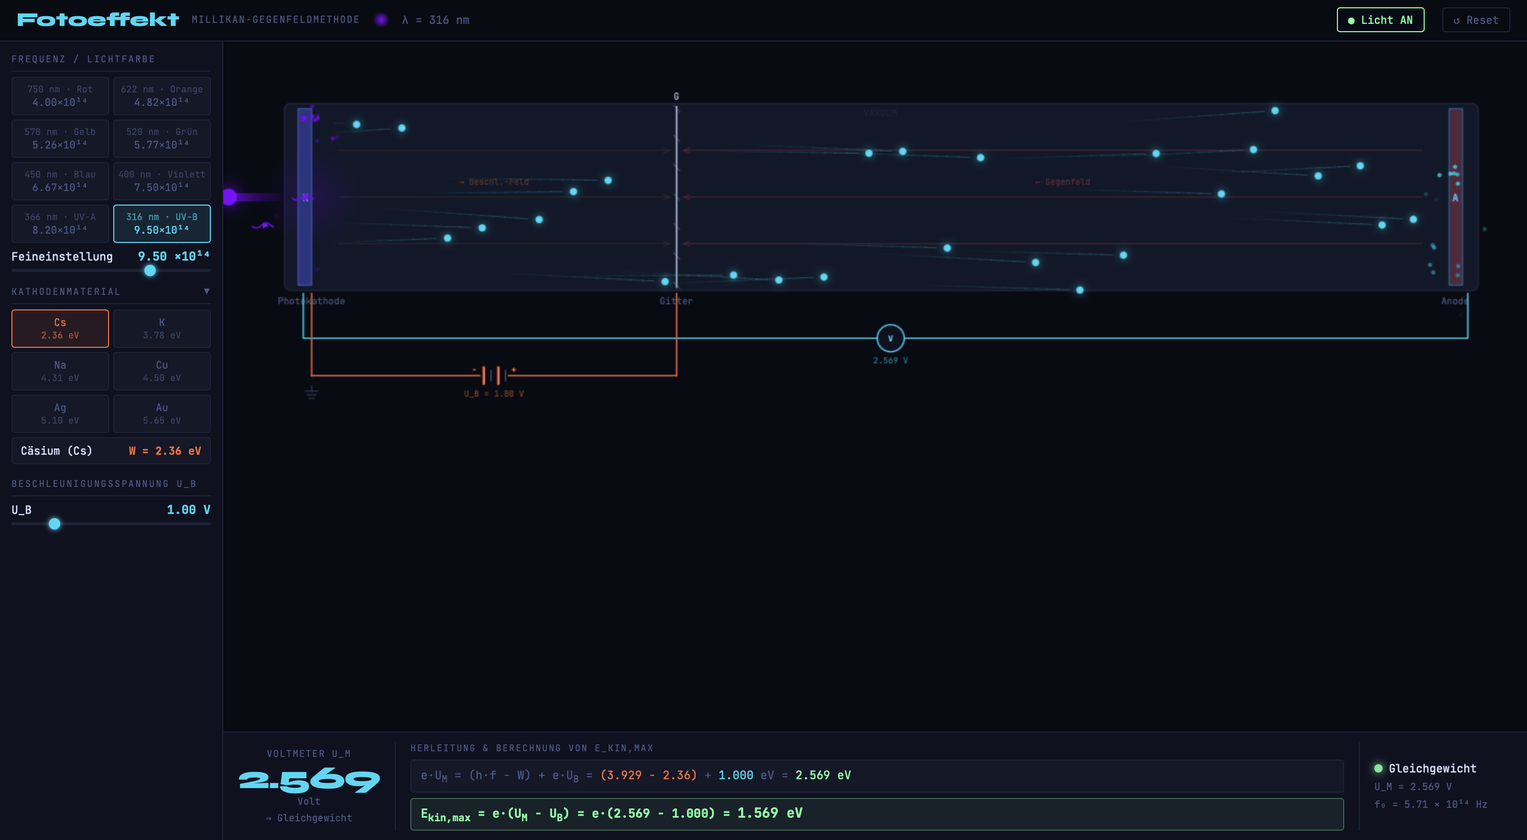
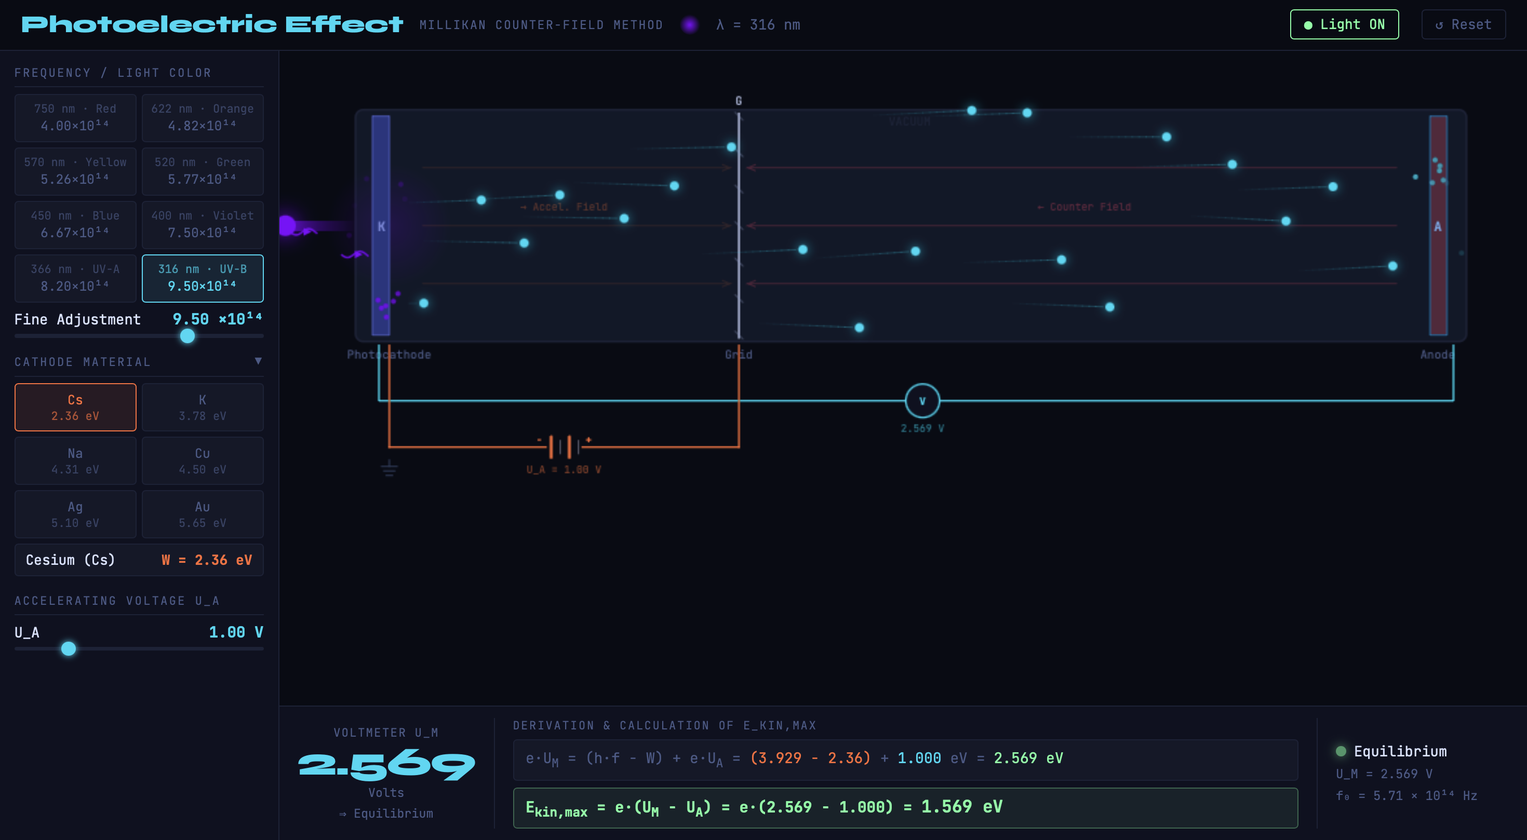
Added new projects

diff --git a/projects/physics_simulation/fotoeffect.html b/projects/physics_simulation/fotoeffect.html
@@ -1,8 +1,8 @@
 <!DOCTYPE html>
-<html lang="de">
+<html lang="en">
 <head>
 <meta charset="UTF-8"><meta name="viewport" content="width=device-width, initial-scale=1.0">
-<title>Fotoeffekt – Simulation</title>
+<title>Photoelectric Effect – Simulation</title>
 <link href="https://fonts.googleapis.com/css2?family=JetBrains+Mono:wght@400;700&family=Syne:wght@800&display=swap" rel="stylesheet">
 <style>
 :root{--bg:#080b14;--panel:#0e1120;--panel2:#141828;--border:#1c2238;--accent:#00d9f5;--acc2:#ff6b35;--acc3:#6effa0;--dim:#4a5a88;--text:#d8e2ff;}
@@ -72,49 +72,49 @@ canvas#sim{display:block;width:100%;height:100%;}
 </head>
 <body>
 <header>
-  <h1>Fotoeffekt</h1><span class="sub">Millikan-Gegenfeldmethode</span>
+  <h1>Photoelectric Effect</h1><span class="sub">Millikan Counter-Field Method</span>
   <canvas class="light-dot" id="light-dot" width="16" height="16"></canvas>
   <span id="hdr-wl">—</span>
-  <button class="hbtn on" id="btn-light">● Licht AN</button>
+  <button class="hbtn on" id="btn-light">● Light ON</button>
   <button class="hbtn" id="btn-reset">↺ Reset</button>
 </header>
 <div class="body-row">
   <aside class="left">
     <div>
-      <div class="sect">Frequenz / Lichtfarbe</div>
+      <div class="sect">Frequency / Light Color</div>
       <div class="freq-grid" id="freq-btns">
-        <button class="freq-btn" data-f="4.00"><span>750 nm · Rot</span>4.00×10¹⁴</button>
+        <button class="freq-btn" data-f="4.00"><span>750 nm · Red</span>4.00×10¹⁴</button>
         <button class="freq-btn" data-f="4.82"><span>622 nm · Orange</span>4.82×10¹⁴</button>
-        <button class="freq-btn" data-f="5.26"><span>570 nm · Gelb</span>5.26×10¹⁴</button>
-        <button class="freq-btn" data-f="5.77"><span>520 nm · Grün</span>5.77×10¹⁴</button>
-        <button class="freq-btn" data-f="6.67"><span>450 nm · Blau</span>6.67×10¹⁴</button>
-        <button class="freq-btn" data-f="7.50"><span>400 nm · Violett</span>7.50×10¹⁴</button>
+        <button class="freq-btn" data-f="5.26"><span>570 nm · Yellow</span>5.26×10¹⁴</button>
+        <button class="freq-btn" data-f="5.77"><span>520 nm · Green</span>5.77×10¹⁴</button>
+        <button class="freq-btn" data-f="6.67"><span>450 nm · Blue</span>6.67×10¹⁴</button>
+        <button class="freq-btn" data-f="7.50"><span>400 nm · Violet</span>7.50×10¹⁴</button>
         <button class="freq-btn" data-f="8.20"><span>366 nm · UV-A</span>8.20×10¹⁴</button>
         <button class="freq-btn active" data-f="9.50"><span>316 nm · UV-B</span>9.50×10¹⁴</button>
       </div>
       <div class="sl-wrap">
-        <div class="sl-head"><span class="sl-name">Feineinstellung</span><span class="sl-val" id="val-freq">9.50 ×10¹⁴</span></div>
+        <div class="sl-head"><span class="sl-name">Fine Adjustment</span><span class="sl-val" id="val-freq">9.50 ×10¹⁴</span></div>
         <input type="range" id="sl-freq" min="3.5" max="12.0" step="0.05" value="9.5">
       </div>
     </div>
     <div>
-      <div class="col-hdr open" id="mat-hdr"><span>Kathodenmaterial</span><span class="arr">▶</span></div>
+      <div class="col-hdr open" id="mat-hdr"><span>Cathode Material</span><span class="arr">▶</span></div>
       <div class="col-body open" id="mat-body">
         <div class="mat-grid" id="mat-btns">
-          <button class="mat-btn active" data-w="2.36" data-name="Cäsium (Cs)">Cs<small>2.36 eV</small></button>
-          <button class="mat-btn" data-w="3.78" data-name="Kalium (K)">K<small>3.78 eV</small></button>
-          <button class="mat-btn" data-w="4.31" data-name="Natrium (Na)">Na<small>4.31 eV</small></button>
-          <button class="mat-btn" data-w="4.50" data-name="Kupfer (Cu)">Cu<small>4.50 eV</small></button>
-          <button class="mat-btn" data-w="5.10" data-name="Silber (Ag)">Ag<small>5.10 eV</small></button>
+          <button class="mat-btn active" data-w="2.36" data-name="Cesium (Cs)">Cs<small>2.36 eV</small></button>
+          <button class="mat-btn" data-w="3.78" data-name="Potassium (K)">K<small>3.78 eV</small></button>
+          <button class="mat-btn" data-w="4.31" data-name="Sodium (Na)">Na<small>4.31 eV</small></button>
+          <button class="mat-btn" data-w="4.50" data-name="Copper (Cu)">Cu<small>4.50 eV</small></button>
+          <button class="mat-btn" data-w="5.10" data-name="Silver (Ag)">Ag<small>5.10 eV</small></button>
           <button class="mat-btn" data-w="5.65" data-name="Gold (Au)">Au<small>5.65 eV</small></button>
         </div>
       </div>
-      <div class="mat-cur"><span class="mn" id="mat-cur-name">Cäsium (Cs)</span><span class="mw">W = <span id="mat-cur-w">2.36</span> eV</span></div>
+      <div class="mat-cur"><span class="mn" id="mat-cur-name">Cesium (Cs)</span><span class="mw">W = <span id="mat-cur-w">2.36</span> eV</span></div>
     </div>
     <div>
-      <div class="sect">Beschleunigungsspannung U_B</div>
+      <div class="sect">Accelerating Voltage U_A</div>
       <div class="sl-wrap">
-        <div class="sl-head"><span class="sl-name">U_B</span><span class="sl-val" id="val-ub">1.00 V</span></div>
+        <div class="sl-head"><span class="sl-name">U_A</span><span class="sl-val" id="val-ub">1.00 V</span></div>
         <input type="range" id="sl-ub" min="0" max="5" step="0.05" value="1.0">
       </div>
     </div>
@@ -125,16 +125,16 @@ canvas#sim{display:block;width:100%;height:100%;}
       <div class="vm-box">
         <div class="vm-label">Voltmeter U_M</div>
         <div class="vm-value" id="vm-val">0.000</div>
-        <div class="vm-unit">Volt</div>
+        <div class="vm-unit">Volts</div>
         <div class="vm-sub" id="vm-sub">—</div>
       </div>
       <div class="eq-area">
-        <div class="eq-title">Herleitung &amp; Berechnung von E_kin,max</div>
+        <div class="eq-title">Derivation &amp; Calculation of E_kin,max</div>
         <div class="eq-step" id="eq-step1">—</div>
         <div class="eq-result eq-ok" id="eq-result">—</div>
       </div>
       <div class="status-box">
-        <div class="s-row"><div class="s-dot" id="s-dot"></div><span class="s-txt" id="s-txt">Bereit</span></div>
+        <div class="s-row"><div class="s-dot" id="s-dot"></div><span class="s-txt" id="s-txt">Ready</span></div>
         <div class="s-sub" id="s-sub">—</div>
         <div class="s-sub" id="s-f0">—</div>
       </div>
@@ -143,7 +143,7 @@ canvas#sim{display:block;width:100%;height:100%;}
 </div>
 <script>
 const hJ=6.626e-34,eC=1.602e-19,cms=3e8;
-const state={f:9.5e14,W:2.36,mat:'Cäsium (Cs)',UB:1.0,UM:0,run:true,eq:false};
+const state={f:9.5e14,W:2.36,mat:'Cesium (Cs)',UB:1.0,UM:0,run:true,eq:false};
 function phys(){const hf=hJ*state.f/eC,ek0=hf-state.W,ekG=ek0+state.UB,Ueq=ekG>0?ekG:0;return{hf,ek0,ekG,Ueq,ok:ek0>0};}
 function toRGB(f){const wl=cms/f*1e9;let r=0,g=0,b=0;if(wl<380){r=128;g=0;b=255;}else if(wl<440){r=Math.round((440-wl)/60*255);g=0;b=255;}else if(wl<490){r=0;g=Math.round((wl-440)/50*255);b=255;}else if(wl<510){r=0;g=255;b=Math.round((510-wl)/20*255);}else if(wl<580){r=Math.round((wl-510)/70*255);g=255;b=0;}else if(wl<645){r=255;g=Math.round((645-wl)/65*255);b=0;}else{r=255;g=0;b=0;}return{r,g,b};}
 function css(f,a=1){const{r,g,b}=toRGB(f);return`rgba(${r},${g},${b},${a})`;}
@@ -169,7 +169,7 @@ function draw(ts){
 function drawTube(l,ph){
   const{cX,gX,aX,tY,tH}=l;
   ctx.fillStyle='#111828';ctx.strokeStyle='#1c2238';ctx.lineWidth=1.5;rr(cX-26,tY,aX-cX+54,tH,6);ctx.fill();ctx.stroke();
-  ctx.fillStyle='rgba(74,90,136,.18)';ctx.font='9px JetBrains Mono';ctx.textAlign='center';ctx.fillText('VAKUUM',(cX+aX)/2,tY+12);ctx.textAlign='left';
+  ctx.fillStyle='rgba(74,90,136,.18)';ctx.font='9px JetBrains Mono';ctx.textAlign='center';ctx.fillText('VACUUM',(cX+aX)/2,tY+12);ctx.textAlign='left';
   if(state.run){const{r,g,b}=toRGB(state.f);const bg=ctx.createLinearGradient(0,0,cX-26,0);bg.addColorStop(0,`rgba(${r},${g},${b},.7)`);bg.addColorStop(1,`rgba(${r},${g},${b},0)`);ctx.fillStyle=bg;ctx.fillRect(0,tY+tH/2-4,cX-26,8);ctx.beginPath();ctx.arc(5,tY+tH/2,8,0,Math.PI*2);ctx.fillStyle=`rgb(${r},${g},${b})`;ctx.shadowColor=`rgb(${r},${g},${b})`;ctx.shadowBlur=16;ctx.fill();ctx.shadowBlur=0;}
   if(state.run&&ph.ok){const{r,g,b}=toRGB(state.f);const cg=ctx.createRadialGradient(cX,tY+tH/2,0,cX,tY+tH/2,48);cg.addColorStop(0,`rgba(${r},${g},${b},.16)`);cg.addColorStop(1,`rgba(${r},${g},${b},0)`);ctx.fillStyle=cg;ctx.fillRect(cX-48,tY,96,tH);}
   if(state.UB>0){ctx.globalAlpha=.13;ctx.strokeStyle='#ff6b35';ctx.lineWidth=1;for(let row=1;row<=3;row++){arr(cX+26,tY+tH*row/4,gX-7,tY+tH*row/4,6);}ctx.globalAlpha=1;}
@@ -177,10 +177,10 @@ function drawTube(l,ph){
   ctx.fillStyle='#283580';ctx.fillRect(cX-13,tY+5,13,tH-10);ctx.strokeStyle='#4858b8';ctx.lineWidth=1;ctx.strokeRect(cX-13,tY+5,13,tH-10);ctx.fillStyle='#7888dd';ctx.font='bold 10px JetBrains Mono';ctx.textAlign='center';ctx.fillText('K',cX-6,tY+tH/2+4);ctx.textAlign='left';
   ctx.strokeStyle='#b0bce0';ctx.lineWidth=1.5;ctx.beginPath();ctx.moveTo(gX,tY+3);ctx.lineTo(gX,tY+tH-3);ctx.stroke();ctx.globalAlpha=.45;ctx.lineWidth=.8;for(let i=0;i<7;i++){const gy=tY+5+i*(tH-10)/6;ctx.strokeStyle='#8898c8';ctx.beginPath();ctx.moveTo(gX-3,gy-3);ctx.lineTo(gX+3,gy+3);ctx.stroke();}ctx.globalAlpha=1;ctx.fillStyle='#b0bce0';ctx.font='9px JetBrains Mono';ctx.textAlign='center';ctx.fillText('G',gX,tY-4);ctx.textAlign='left';
   const chg=Math.min(state.UM/Math.max(ph.Ueq,.01),1);ctx.fillStyle=`rgb(${Math.round(20+chg*65)},${Math.round(85-chg*45)},${Math.round(155-chg*95)})`;ctx.fillRect(aX,tY+5,13,tH-10);ctx.strokeStyle='rgba(0,140,210,.7)';ctx.lineWidth=1;ctx.strokeRect(aX,tY+5,13,tH-10);ctx.fillStyle='#70a8e8';ctx.font='bold 10px JetBrains Mono';ctx.textAlign='center';ctx.fillText('A',aX+6,tY+tH/2+4);ctx.textAlign='left';
-  const ly=tY+tH+13;ctx.fillStyle='#4a5a88';ctx.font='9px JetBrains Mono';ctx.textAlign='center';ctx.fillText('Photokathode',cX,ly);ctx.fillText('Gitter',gX,ly);ctx.fillText('Anode',aX+6,ly);ctx.textAlign='left';
-  if(state.UB>0){ctx.fillStyle='rgba(255,107,53,.33)';ctx.font='8px JetBrains Mono';ctx.textAlign='center';ctx.fillText('→ Beschl.-Feld',(cX+gX)/2,tY+tH/2-12);ctx.textAlign='left';}
-  if(state.UM>.05){ctx.fillStyle='rgba(255,68,102,.36)';ctx.font='8px JetBrains Mono';ctx.textAlign='center';ctx.fillText('← Gegenfeld',(gX+aX)/2,tY+tH/2-12);ctx.textAlign='left';}
-  if(!ph.ok&&state.run){ctx.save();ctx.fillStyle='rgba(8,11,20,.82)';rr((cX+aX)/2-125,tY+tH/2-23,250,46,5);ctx.fill();ctx.fillStyle='#ff4466';ctx.font='bold 12px Syne,sans-serif';ctx.textAlign='center';ctx.fillText('h·f < W  —  Kein Fotoeffekt!',(cX+aX)/2,tY+tH/2-4);ctx.fillStyle='#4a5a88';ctx.font='9px JetBrains Mono';const f0=((state.W*eC)/(hJ*1e14)).toFixed(2);ctx.fillText(`Grenzfrequenz f₀ = ${f0} × 10¹⁴ Hz`,(cX+aX)/2,tY+tH/2+14);ctx.restore();ctx.textAlign='left';}
+  const ly=tY+tH+13;ctx.fillStyle='#4a5a88';ctx.font='9px JetBrains Mono';ctx.textAlign='center';ctx.fillText('Photocathode',cX,ly);ctx.fillText('Grid',gX,ly);ctx.fillText('Anode',aX+6,ly);ctx.textAlign='left';
+  if(state.UB>0){ctx.fillStyle='rgba(255,107,53,.33)';ctx.font='8px JetBrains Mono';ctx.textAlign='center';ctx.fillText('→ Accel. Field',(cX+gX)/2,tY+tH/2-12);ctx.textAlign='left';}
+  if(state.UM>.05){ctx.fillStyle='rgba(255,68,102,.36)';ctx.font='8px JetBrains Mono';ctx.textAlign='center';ctx.fillText('← Counter Field',(gX+aX)/2,tY+tH/2-12);ctx.textAlign='left';}
+  if(!ph.ok&&state.run){ctx.save();ctx.fillStyle='rgba(8,11,20,.82)';rr((cX+aX)/2-125,tY+tH/2-23,250,46,5);ctx.fill();ctx.fillStyle='#ff4466';ctx.font='bold 12px Syne,sans-serif';ctx.textAlign='center';ctx.fillText('h·f < W  —  No Photoelectric Effect!',(cX+aX)/2,tY+tH/2-4);ctx.fillStyle='#4a5a88';ctx.font='9px JetBrains Mono';const f0=((state.W*eC)/(hJ*1e14)).toFixed(2);ctx.fillText(`Threshold frequency f₀ = ${f0} × 10¹⁴ Hz`,(cX+aX)/2,tY+tH/2+14);ctx.restore();ctx.textAlign='left';}
 }
 function drawCircuit(l,ph){
   const{cX,gX,aX,tY,tH}=l,base=tY+tH+20,midVM=base+26,midUB=base+62;
@@ -199,7 +199,7 @@ function drawCircuit(l,ph){
   ctx.beginPath();ctx.moveTo(ubCX+14,midUB);ctx.lineTo(gX,midUB);ctx.stroke();
   for(let k=0;k<4;k++){const bx=ubCX-10+k*7,lg=k%2===0;ctx.strokeStyle=lg?'#ff6b35':'#556';ctx.lineWidth=lg?2.2:1.1;ctx.beginPath();ctx.moveTo(bx,midUB-(lg?8:5));ctx.lineTo(bx,midUB+(lg?8:5));ctx.stroke();}
   ctx.lineWidth=1.3;ctx.fillStyle='#ff6b35';ctx.font='bold 8px JetBrains Mono';ctx.textAlign='center';ctx.fillText('−',ubCX-19,midUB-3);ctx.fillText('+',ubCX+19,midUB-3);
-  ctx.fillStyle='rgba(255,107,53,.55)';ctx.font='8px JetBrains Mono';ctx.fillText(`U_B = ${state.UB.toFixed(2)} V`,ubCX,midUB+20);ctx.textAlign='left';
+  ctx.fillStyle='rgba(255,107,53,.55)';ctx.font='8px JetBrains Mono';ctx.fillText(`U_A = ${state.UB.toFixed(2)} V`,ubCX,midUB+20);ctx.textAlign='left';
   gnd(cX,midUB+10,'#2e3c5c');
 }
 function gnd(x,y,c){ctx.strokeStyle=c;ctx.lineWidth=1;ctx.beginPath();ctx.moveTo(x,y);ctx.lineTo(x,y+5);ctx.stroke();for(let i=0;i<3;i++){const hw=6-i*1.8;ctx.beginPath();ctx.moveTo(x-hw,y+5+i*3.5);ctx.lineTo(x+hw,y+5+i*3.5);ctx.stroke();}}
@@ -207,13 +207,13 @@ function arr(x1,y1,x2,y2,hl){const a=Math.atan2(y2-y1,x2-x1);ctx.beginPath();ctx
 function rr(x,y,w,h,r){ctx.beginPath();ctx.moveTo(x+r,y);ctx.lineTo(x+w-r,y);ctx.arcTo(x+w,y,x+w,y+r,r);ctx.lineTo(x+w,y+h-r);ctx.arcTo(x+w,y+h,x+w-r,y+h,r);ctx.lineTo(x+r,y+h);ctx.arcTo(x,y+h,x,y+h-r,r);ctx.lineTo(x,y+r);ctx.arcTo(x,y,x+r,y,r);ctx.closePath();}
 function updateUI(ph){
   document.getElementById('vm-val').textContent=state.UM.toFixed(3);
-  document.getElementById('vm-sub').textContent=state.eq?'⇒ Gleichgewicht':'⇒ lädt auf …';
-  document.getElementById('eq-step1').innerHTML=`<span style="color:var(--dim)">e·U<sub>M</sub> = (h·f − W) + e·U<sub>B</sub> = </span><span class="o">(${ph.hf.toFixed(3)} − ${state.W.toFixed(2)})</span><span style="color:var(--dim)"> + </span><span class="c">${state.UB.toFixed(3)}</span><span style="color:var(--dim)"> eV = </span><span class="${ph.ok?'g':'r'}">${ph.ok?ph.Ueq.toFixed(3):'< 0'} eV</span>`;
+  document.getElementById('vm-sub').textContent=state.eq?'⇒ Equilibrium':'⇒ charging …';
+  document.getElementById('eq-step1').innerHTML=`<span style="color:var(--dim)">e·U<sub>M</sub> = (h·f − W) + e·U<sub>A</sub> = </span><span class="o">(${ph.hf.toFixed(3)} − ${state.W.toFixed(2)})</span><span style="color:var(--dim)"> + </span><span class="c">${state.UB.toFixed(3)}</span><span style="color:var(--dim)"> eV = </span><span class="${ph.ok?'g':'r'}">${ph.ok?ph.Ueq.toFixed(3):'< 0'} eV</span>`;
   const ekin=Math.max(state.UM-state.UB,0),res=document.getElementById('eq-result');
-  if(ph.ok){res.className='eq-result eq-ok';res.innerHTML=`<b>E<sub>kin,max</sub></b> = e·(U<sub>M</sub> − U<sub>B</sub>) = e·(${state.UM.toFixed(3)} − ${state.UB.toFixed(3)}) = <span style="color:var(--acc3);font-size:.82rem">${ekin.toFixed(3)} eV</span>`;}else{res.className='eq-result eq-err';res.innerHTML=`h·f = ${ph.hf.toFixed(3)} eV &lt; W = ${state.W.toFixed(2)} eV → Kein Fotoeffekt`;}
+  if(ph.ok){res.className='eq-result eq-ok';res.innerHTML=`<b>E<sub>kin,max</sub></b> = e·(U<sub>M</sub> − U<sub>A</sub>) = e·(${state.UM.toFixed(3)} − ${state.UB.toFixed(3)}) = <span style="color:var(--acc3);font-size:.82rem">${ekin.toFixed(3)} eV</span>`;}else{res.className='eq-result eq-err';res.innerHTML=`h·f = ${ph.hf.toFixed(3)} eV &lt; W = ${state.W.toFixed(2)} eV → No photoelectric effect`;}
   const f0=((state.W*eC)/(hJ*1e14)).toFixed(2);document.getElementById('s-f0').textContent=`f₀ = ${f0} × 10¹⁴ Hz`;
   const dot=document.getElementById('s-dot'),stxt=document.getElementById('s-txt'),ssub=document.getElementById('s-sub');
-  if(!state.run){dot.className='s-dot';stxt.textContent='Licht aus';ssub.textContent='Schalter oben';}else if(!ph.ok){dot.className='s-dot blocked';stxt.textContent='Kein Effekt';ssub.textContent='f < Grenzfrequenz';}else if(state.eq){dot.className='s-dot on';stxt.textContent='Gleichgewicht';ssub.textContent=`U_M = ${state.UM.toFixed(3)} V`;}else{dot.className='s-dot on';stxt.textContent='e⁻ fließen';ssub.textContent=`U_M ↑ ${state.UM.toFixed(3)} V`;}
+  if(!state.run){dot.className='s-dot';stxt.textContent='Light off';ssub.textContent='Toggle switch above';}else if(!ph.ok){dot.className='s-dot blocked';stxt.textContent='No effect';ssub.textContent='f < threshold freq.';}else if(state.eq){dot.className='s-dot on';stxt.textContent='Equilibrium';ssub.textContent=`U_M = ${state.UM.toFixed(3)} V`;}else{dot.className='s-dot on';stxt.textContent='e⁻ flowing';ssub.textContent=`U_M ↑ ${state.UM.toFixed(3)} V`;}
 }
 function updatePreview(){const lc=document.getElementById('light-dot').getContext('2d');const{r,g,b}=toRGB(state.f);lc.clearRect(0,0,16,16);const gd=lc.createRadialGradient(8,8,0,8,8,8);gd.addColorStop(0,`rgb(${r},${g},${b})`);gd.addColorStop(1,`rgba(${r},${g},${b},0)`);lc.fillStyle=gd;lc.beginPath();lc.arc(8,8,8,0,Math.PI*2);lc.fill();document.getElementById('hdr-wl').textContent=`λ = ${Math.round(cms/state.f*1e9)} nm`;}
 function reset(){state.UM=0;state.eq=false;photons.length=0;electrons.length=0;sparks.length=0;}
@@ -222,7 +222,7 @@ document.getElementById('freq-btns').addEventListener('click',ev=>{const btn=ev.
 document.getElementById('sl-ub').addEventListener('input',function(){state.UB=parseFloat(this.value);document.getElementById('val-ub').textContent=state.UB.toFixed(2)+' V';reset();});
 document.getElementById('mat-hdr').addEventListener('click',()=>{document.getElementById('mat-hdr').classList.toggle('open');document.getElementById('mat-body').classList.toggle('open');});
 document.getElementById('mat-btns').addEventListener('click',ev=>{const btn=ev.target.closest('.mat-btn');if(!btn)return;document.querySelectorAll('.mat-btn').forEach(b=>b.classList.remove('active'));btn.classList.add('active');state.W=parseFloat(btn.dataset.w);state.mat=btn.dataset.name;document.getElementById('mat-cur-name').textContent=state.mat;document.getElementById('mat-cur-w').textContent=state.W.toFixed(2);reset();});
-function updT(){const b=document.getElementById('btn-light');if(state.run){b.textContent='● Licht AN';b.classList.add('on');}else{b.textContent='○ Licht AUS';b.classList.remove('on');}}
+function updT(){const b=document.getElementById('btn-light');if(state.run){b.textContent='● Light ON';b.classList.add('on');}else{b.textContent='○ Light OFF';b.classList.remove('on');}}
 document.getElementById('btn-light').addEventListener('click',()=>{state.run=!state.run;if(!state.run){electrons.length=0;photons.length=0;sparks.length=0;}updT();});
 document.getElementById('btn-reset').addEventListener('click',reset);
 updatePreview();requestAnimationFrame(draw);

diff --git a/index.html b/index.html
@@ -570,6 +570,80 @@
       .hero-row { flex-direction: column; align-items: flex-start; }
       footer { flex-direction: column; gap: .5rem; text-align: center; }
     }
+
+    /* ── PROJECT MODAL ── */
+    #proj-modal-overlay {
+      position: fixed; inset: 0; z-index: 3000;
+      background: rgba(5,5,10,0);
+      backdrop-filter: blur(0px);
+      -webkit-backdrop-filter: blur(0px);
+      display: flex; align-items: center; justify-content: center;
+      padding: 2rem;
+      pointer-events: none;
+      transition: background .4s ease, backdrop-filter .4s ease;
+    }
+    #proj-modal-overlay.open {
+      background: rgba(5,5,10,.85);
+      backdrop-filter: blur(18px);
+      -webkit-backdrop-filter: blur(18px);
+      pointer-events: all;
+    }
+    #proj-modal {
+      background: var(--bg2);
+      border: 1px solid var(--border2);
+      border-radius: 20px;
+      max-width: 780px;
+      width: 100%;
+      max-height: 88vh;
+      overflow-y: auto;
+      position: relative;
+      opacity: 0;
+      transform: translateY(40px) scale(0.96);
+      transition: opacity .4s var(--ease), transform .4s var(--ease);
+      scrollbar-width: thin;
+      scrollbar-color: var(--accent) transparent;
+    }
+    #proj-modal::-webkit-scrollbar { width: 3px; }
+    #proj-modal::-webkit-scrollbar-thumb { background: var(--accent); border-radius: 2px; }
+    #proj-modal-overlay.open #proj-modal {
+      opacity: 1;
+      transform: translateY(0) scale(1);
+    }
+    .modal-img {
+      width: 100%;
+      border-radius: 16px 16px 0 0;
+      display: block;
+      max-height: 420px;
+      object-fit: contain;
+      background: var(--bg3);
+    }
+    .modal-img-empty {
+      width: 100%; height: 240px;
+      border-radius: 16px 16px 0 0;
+      background: var(--bg3);
+      display: flex; align-items: center; justify-content: center;
+      font-size: 4rem; opacity: .1;
+    }
+    .modal-body { padding: 2rem 2.25rem 2.5rem; }
+    .modal-year { font-size: .68rem; font-weight: 800; color: var(--accent); letter-spacing: .12em; margin-bottom: .4rem; }
+    .modal-title { font-size: 2rem; font-weight: 900; letter-spacing: -.04em; color: var(--text); margin-bottom: 1rem; line-height: 1.1; }
+    .modal-desc { font-size: .95rem; color: var(--muted); line-height: 1.8; margin-bottom: 1.5rem; }
+    .modal-links { display: flex; gap: .65rem; margin-top: 1.5rem; }
+    .modal-close {
+      position: absolute; top: 1rem; right: 1rem;
+      width: 36px; height: 36px; border-radius: 50%;
+      background: rgba(255,255,255,.06);
+      border: 1px solid var(--border2);
+      color: var(--muted); font-size: 1rem;
+      display: flex; align-items: center; justify-content: center;
+      cursor: pointer; transition: all .2s;
+      backdrop-filter: blur(8px);
+      line-height: 1;
+    }
+    .modal-close:hover { background: rgba(232,87,42,.15); border-color: var(--accent); color: var(--accent); }
+
+    /* card & featured click cursor */
+    .proj-card, .proj-featured { cursor: pointer; }
   </style>
 </head>
 <body>
@@ -681,6 +755,22 @@
       <ul class="contact-socials" id="contact-socials"></ul>
     </div>
   </div></section>
+
+
+  <!-- PROJECT MODAL -->
+  <div id="proj-modal-overlay">
+    <div id="proj-modal">
+      <button class="modal-close" id="modal-close">✕</button>
+      <div id="modal-img-wrap"></div>
+      <div class="modal-body">
+        <div class="modal-year" id="modal-year"></div>
+        <div class="modal-title" id="modal-title"></div>
+        <p class="modal-desc" id="modal-desc"></p>
+        <div class="tag-row" id="modal-tags"></div>
+        <div class="modal-links" id="modal-links"></div>
+      </div>
+    </div>
+  </div>
 
   <footer id="footer"></footer>
 
@@ -897,7 +987,7 @@
 
       if (feat) {
         document.getElementById('proj-featured').innerHTML = `
-          <div class="proj-featured">
+          <div class="proj-featured" data-proj-id="${feat.title}">
             <div class="proj-feat-img">
               ${feat.image ? `<img src="${feat.image}" alt="${feat.title}" loading="lazy" />` : `<span class="proj-feat-ph">${feat.title}</span>`}
               ${feat.wip ? '<span class="wip-badge">Work in Progress</span>' : ''}
@@ -921,6 +1011,7 @@
       rest.forEach(pr => {
         const card = document.createElement('div');
         card.className = 'proj-card';
+        card.dataset.projId = pr.title;
         card.innerHTML = `
           <div class="proj-card-img">
             ${pr.image ? `<img src="${pr.image}" alt="${pr.title}" loading="lazy" />` : `<span class="proj-card-img-ph">${pr.title.charAt(0)}</span>`}
@@ -937,6 +1028,16 @@
             </div>
           </div>`;
         grid.appendChild(card);
+      });
+
+      // attach click → openModal to all project cards and featured
+      document.querySelectorAll('.proj-card, .proj-featured').forEach(el => {
+        el.addEventListener('click', e => {
+          if (e.target.closest('a')) return; // don't open modal when clicking links
+          const title = el.dataset.projId || el.querySelector('.proj-card-title, .proj-title-big')?.textContent;
+          const proj = vis.find(p => p.title === title);
+          if (proj) openModal(proj);
+        });
       });
     }
 
@@ -992,7 +1093,42 @@
         <span>${f.text} <a href="#">${f.name}</a></span>`;
     }
 
+
+    /* ── PROJECT MODAL ── */
+    const overlay = document.getElementById('proj-modal-overlay');
+    const modalClose = document.getElementById('modal-close');
+
+    function openModal(proj) {
+      document.getElementById('modal-year').textContent  = proj.year || '';
+      document.getElementById('modal-title').textContent = proj.title;
+      document.getElementById('modal-desc').textContent  = proj.description;
+      document.getElementById('modal-tags').innerHTML    = (proj.tags||[]).map(t => `<span class="tag">${t}</span>`).join('');
+      document.getElementById('modal-links').innerHTML   =
+        (proj.live   ? `<a href="${proj.live}"   class="proj-link p" target="_blank">Live ↗</a>` : '') +
+        (proj.github ? `<a href="${proj.github}" class="proj-link s" target="_blank">GitHub</a>` : '');
+
+      const imgWrap = document.getElementById('modal-img-wrap');
+      if (proj.image) {
+        imgWrap.innerHTML = `<img class="modal-img" src="${proj.image}" alt="${proj.title}" />`;
+      } else {
+        imgWrap.innerHTML = `<div class="modal-img-empty">${proj.title.charAt(0)}</div>`;
+      }
+
+      overlay.classList.add('open');
+      document.body.style.overflow = 'hidden';
+    }
+
+    function closeModal() {
+      overlay.classList.remove('open');
+      document.body.style.overflow = '';
+    }
+
+    modalClose.addEventListener('click', closeModal);
+    overlay.addEventListener('click', e => { if (e.target === overlay) closeModal(); });
+    document.addEventListener('keydown', e => { if (e.key === 'Escape') closeModal(); });
+
     /* ── INIT ── */
+
     async function init() {
       try {
         const data = await fetch('cms.json?v=' + Date.now()).then(r => r.json());
